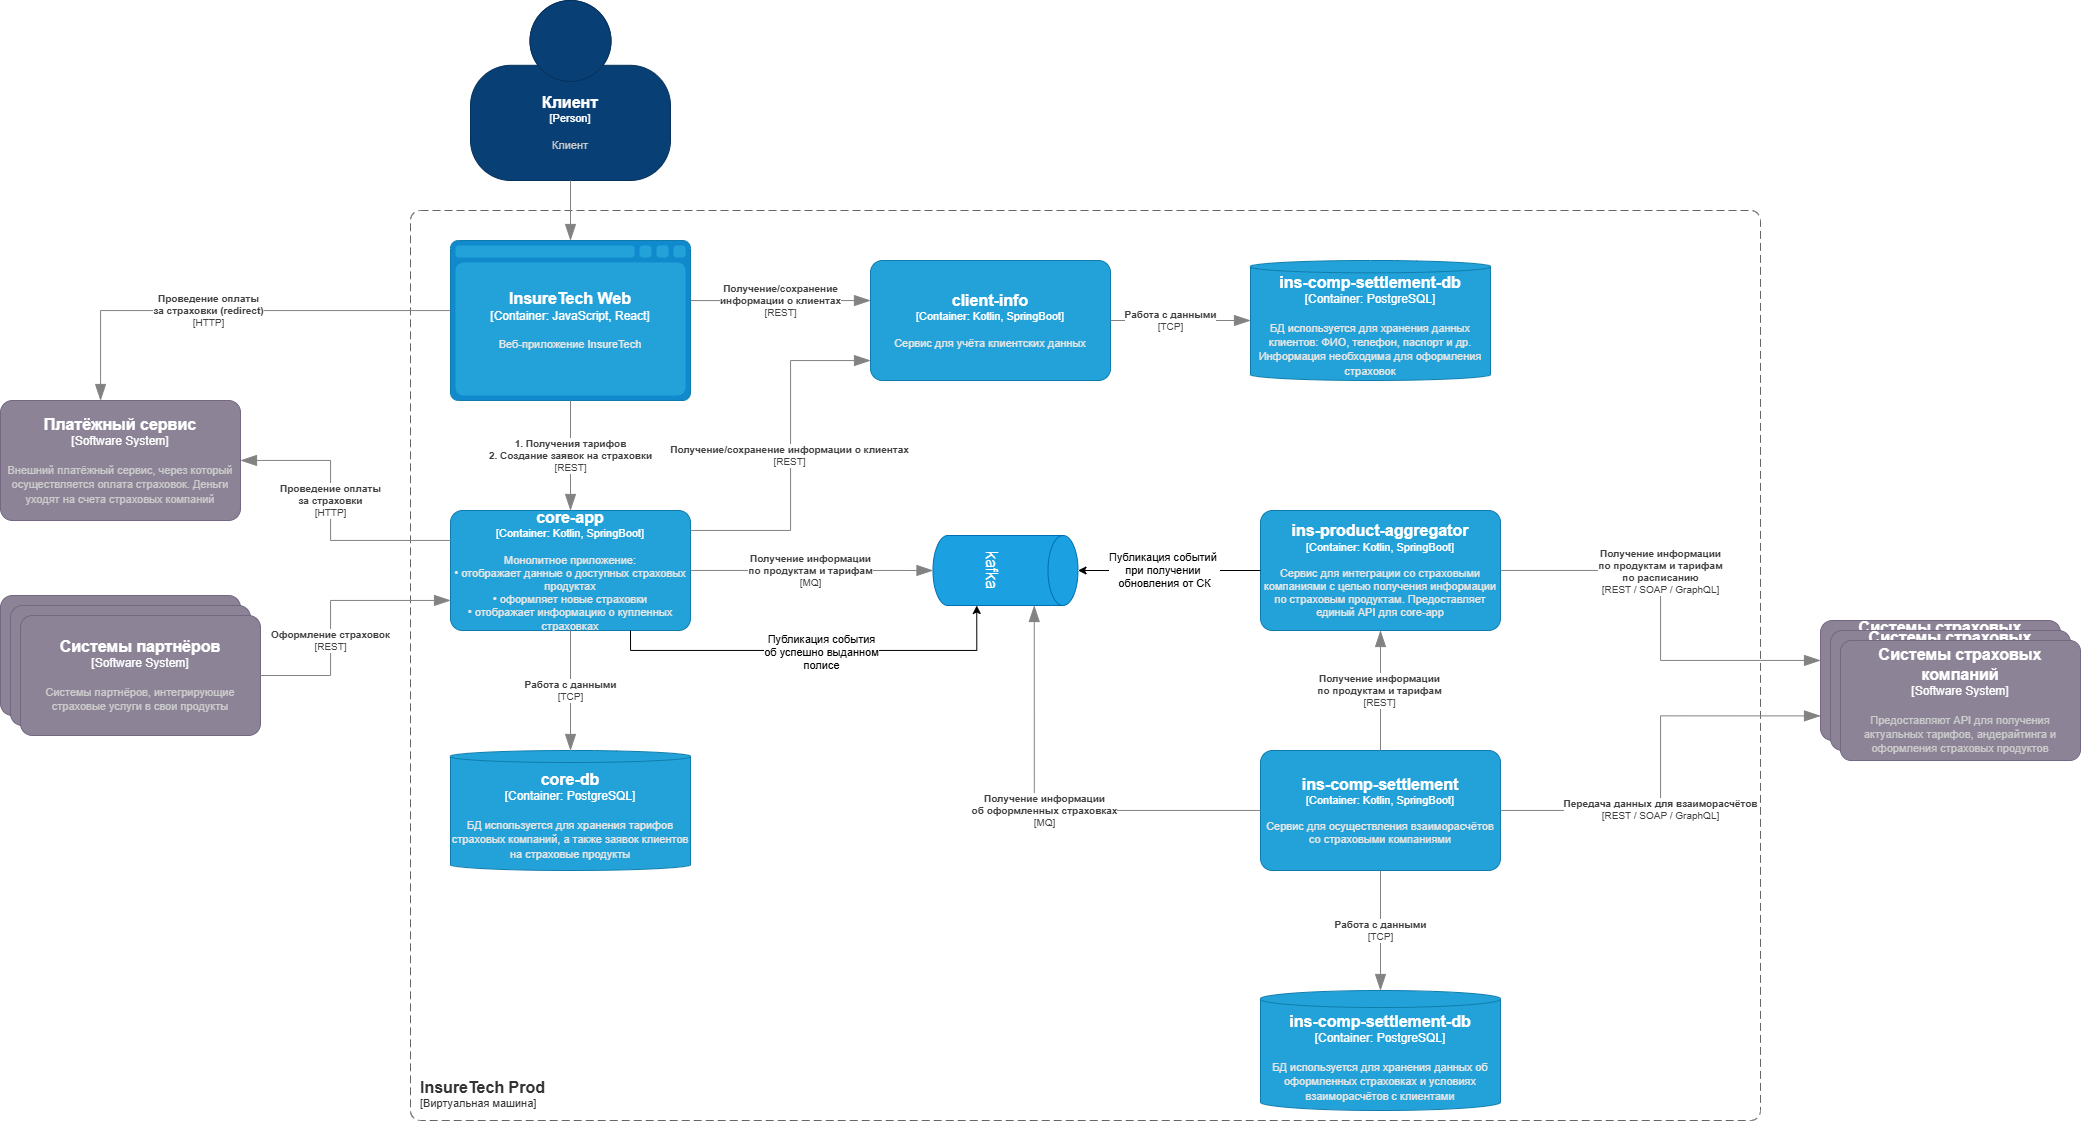
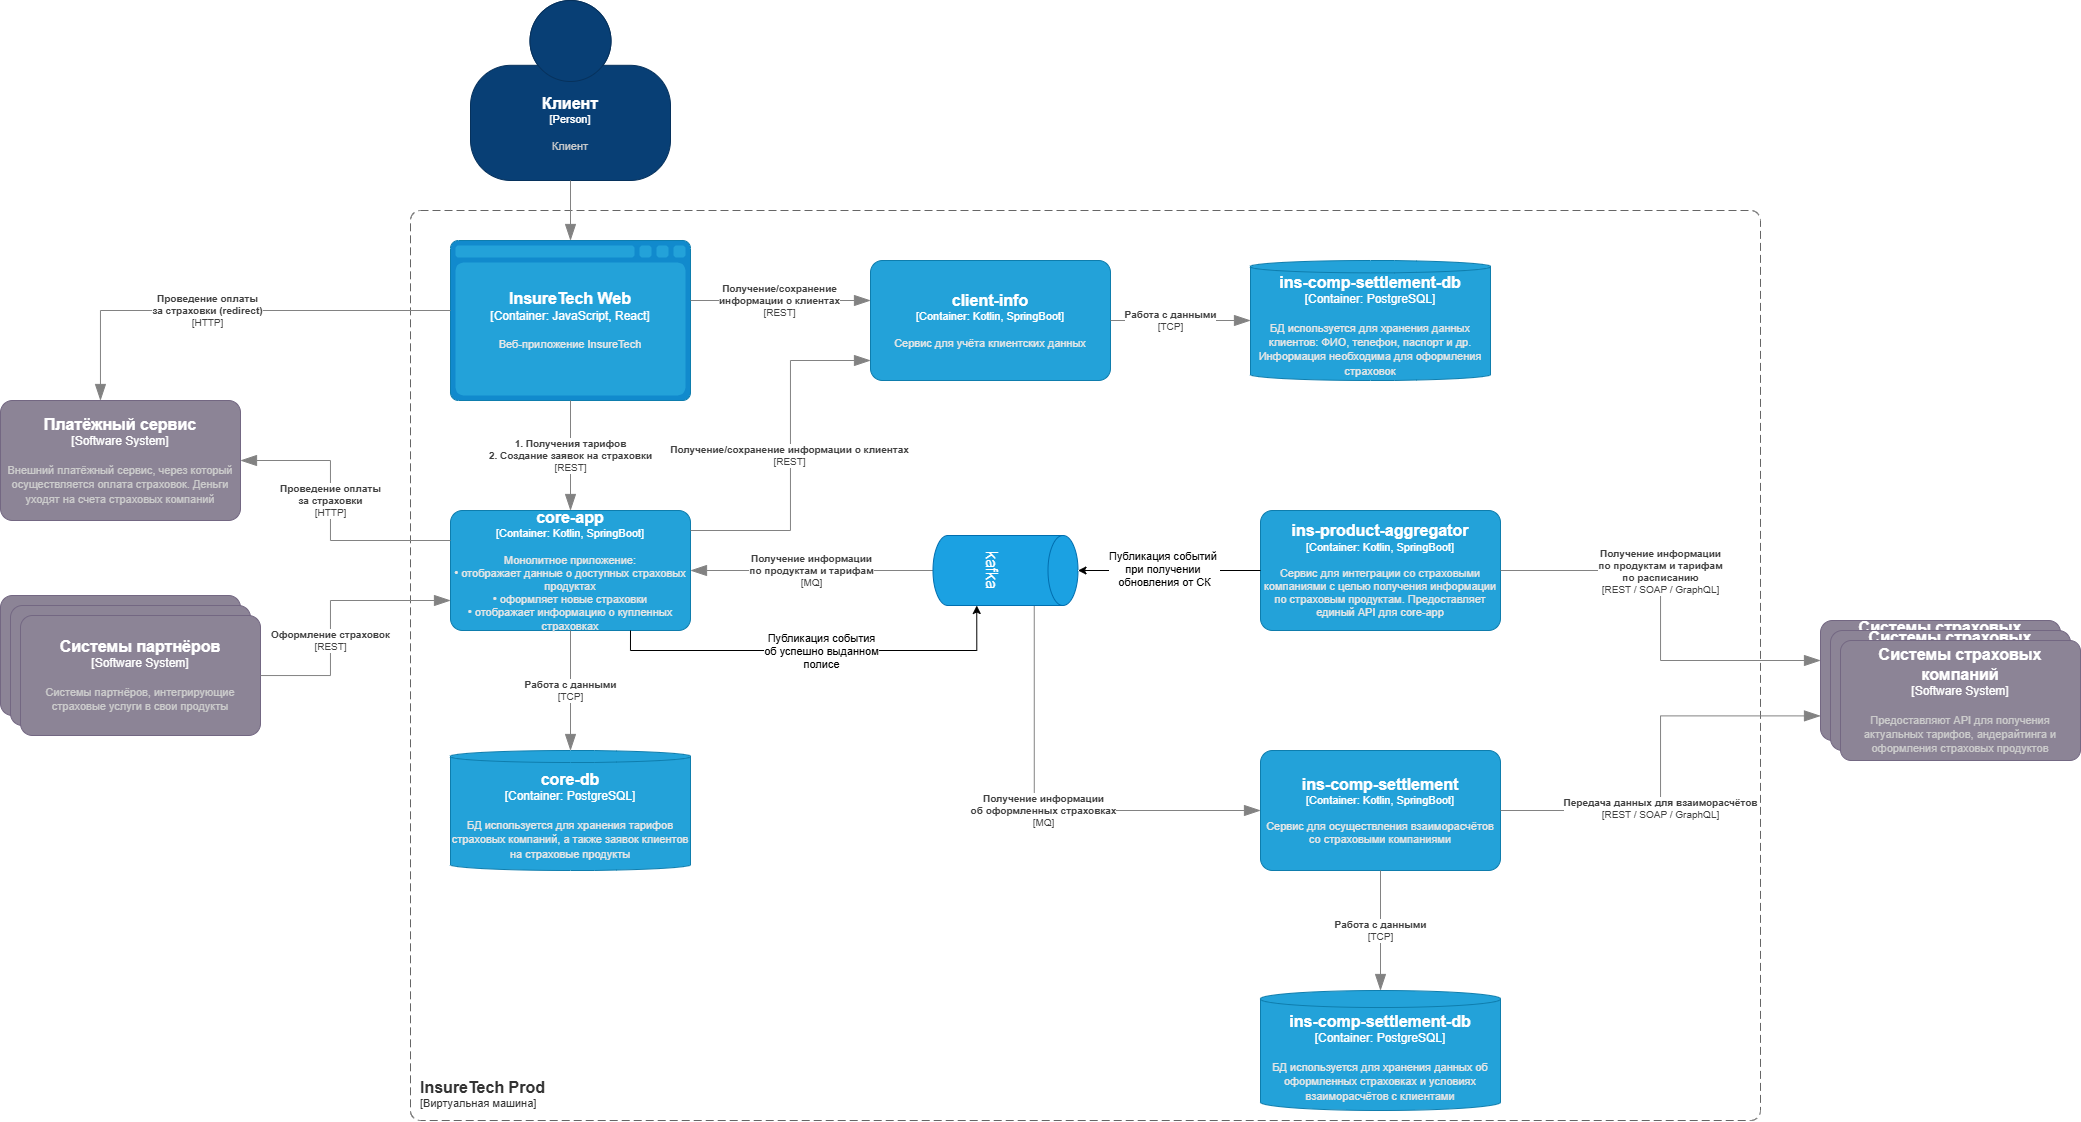
task4

diff --git a/README.md b/README.md
@@ -30,3 +30,55 @@
 6. Шардирование на данный момент не требуется: размер БД небольшой + бд масштабируется репликами.
 7. Также на схему добавил CDN, это позволит улучшить метрики по скорости отображения страниц, в т.ч. в разных регионах
 8. Также на уровне приложения можно завести API gateway с реализацией паттерна Rate limit (исключить случаи, когда один партнер "забивает" весь канал).
+
+## Задание 4. Проектирование продажи ОСАГО
+
+Компания планирует вскоре запустить новый продукт: оформление ОСАГО онлайн. Пользовательский путь выглядит так: клиенту предлагается заполнить заявку с информацией о своём автомобиле, после этого сервис запрашивает у всех доступных страховых компаний предложения с условиями страхования под заявку клиента. Бизнесу важно, чтобы на экране пользователя предложения от каждой страховой компании отображались сразу, как только от неё пришёл ответ. Максимальное время ожидания решения от страховой компании — 60 секунд. 
+
+
+Все страховые компании предоставляют однотипные REST API с двумя эндпоинтами: создать заявку на ОСАГО, получить предложение по заявке.
+
+Бизнес предполагает, что в пик нагрузки количество одновременных пользователей, создающих заявку на ОСАГО, может достигать 2,5 тысячи человек.
+
+Требуется: 
+1. Сохранить подход, который использовался для получения данных о продуктах и тарифах из страховых компаний.
+2. Выделить отдельный сервис для взаимодействия со страховыми компаниями — osago-aggregator.
+3. Функциональная обязанность этого сервиса — отправка заявок в страховые компании и дальнейший опрос решений по ним для передачи результатов в core-app. Остальная функциональность, связанная с оформлением ОСАГО, остаётся на стороне бэкенда в core-app.
+
+### Предлагаемое решение
+
+Схема решения: добавить ссылку на схему
+
+На схеме добавлены два новых объекта: 
+1. osago-aggregator - новый сервис
+2. osago-aggregator-db - база данных нового сервиса
+
+#### 1. Интеграция core-app и osago-aggregator
+
+Для взаимодействия core-app и osago-aggregator предлагается использовать брокер сообщений. Схема: 
+1. При получении запроса на расчет ОСАГО core-app публикует событие (например, OsagoRequestCreated) в брокер сообщений
+2. osago-aggregator подписан на этот топик и получает события о запросах на расчет
+3. После получения событий osago-aggregator для каждой СК делает POST-запрос на создание заявки на ОСАГО, после чего сохраняет в БД external_request_id
+4. Далее запускается поллинг: опрашиваем СК либо до получения успешного ответа, либо до достижения таймаута (60 сек)
+5. osago-aggregator публикует событие (например, OfferCreated или OfferTimeout)
+6. core-app подписан на топик и получает события, отражащюие статус расчета заявки на ОСАГО
+
+При получении события на запрос расчета osago-aggregator сохраняет в БД: 
+- айди запроса
+- внешний айди запроса (для проведения поллинга)
+- время создания заявки
+- статус
+- айди СК
+- айди клиента
+- возможно, какие-то дополнительные данные
+
+БД нужна, во-первых, для проведения поллинга (при рестарте пода можем потерять информацию), во-вторых, это позволит масштабировать сервис горизонтально.
+
+#### 2. Интеграция core-app и веб-приложения
+
+Для взаимодействия core-app и веб-приложения предлагается использовать веб-сокеты для того, чтоб закрыть требование о необходимости отображения ответа от каждой СК сразу, как только от нее пришел ответ. Как только core-app получает событие OfferCreated, он тут же пушит его клиенту. 
+
+#### 3. Паттерны отказоустойчивости
+
+Для osago-aggregator предлагается использовать Timeout (ждем ответ максимум 60 сек) и Retry (API СК может быть недоступен в моменте, можем отправить повторный запрос). 
+Не требуется на этапе MVP, но в будущем можно также добавить Circuit Breaker для случая, если API недоступно. 
